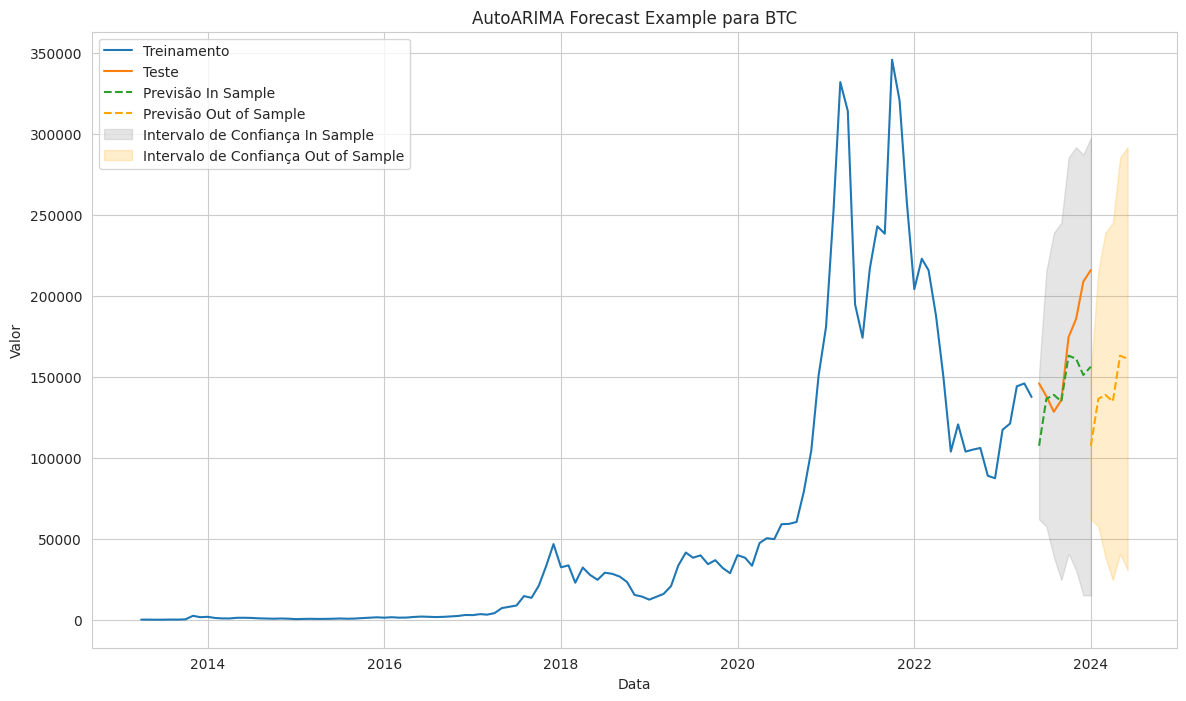
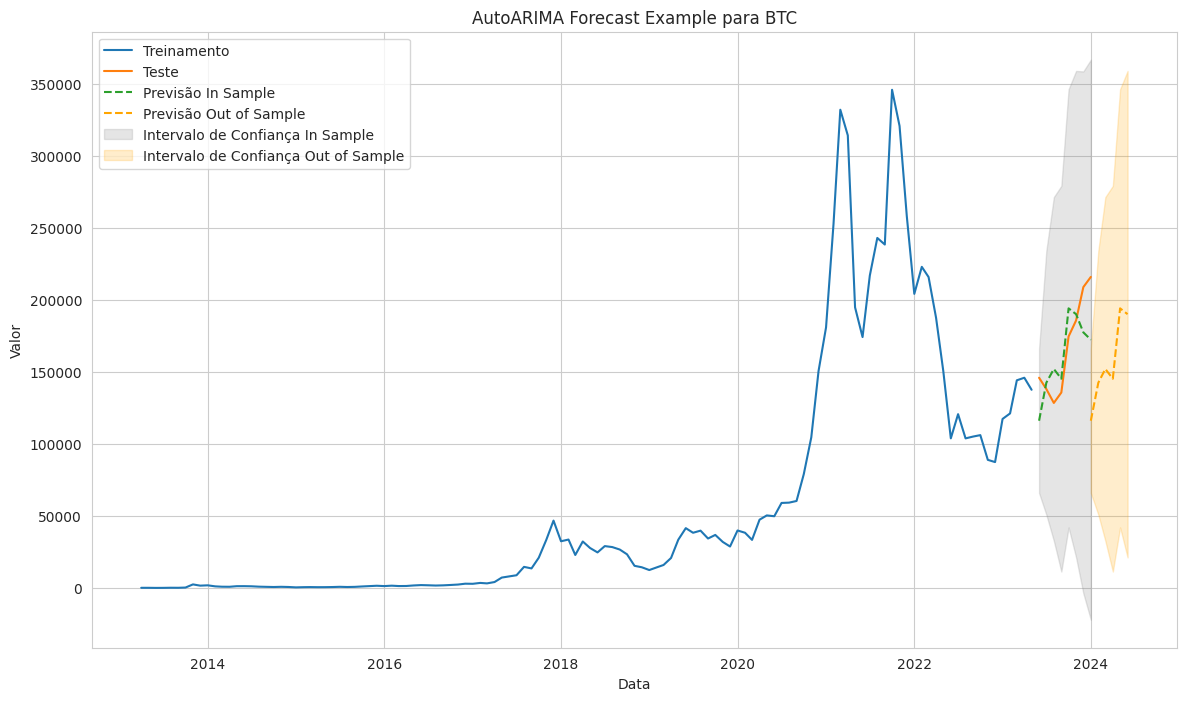
update

diff --git a/functions.py b/functions.py
@@ -216,6 +216,11 @@ def pivotar_dataframe(df):
 
 """# Metrics"""
 
+# parametros
+arima_params = {'seasonal': True, 'm': 12, 'd': 1, 'D': 1, 'max_P': 3, 'max_Q': 3,
+    		'information_criterion': 'aic', 'trace': False, 'error_action': 'ignore',
+    		'stepwise': True}
+
 def processar_e_salvar_params(gold_save_path, filename, df, build_best_params=False):
     """
     Processa os parâmetros para cada ticker no DataFrame df usando auto_arima e salva os resultados em um arquivo JSON.
@@ -241,7 +246,7 @@ def processar_e_salvar_params(gold_save_path, filename, df, build_best_params=Fa
     else:
         best_params_dict = {}
         for tk in tqdm(df.columns, desc=f"Processando parâmetros para {tk}"):
-            model = auto_arima(df[tk].values, seasonal=True, m=12, D=1, start_P=1, start_Q=1, max_P=3, max_Q=3, information_criterion='aic', trace=False, error_action='ignore', stepwise=True)
+            model = auto_arima(df[tk].values, **arima_params)
             best_order = model.order
             best_seasonal_order = model.seasonal_order
             best_params_dict[tk] = {"best_order": model.order, "best_seasonal_order": model.seasonal_order}
